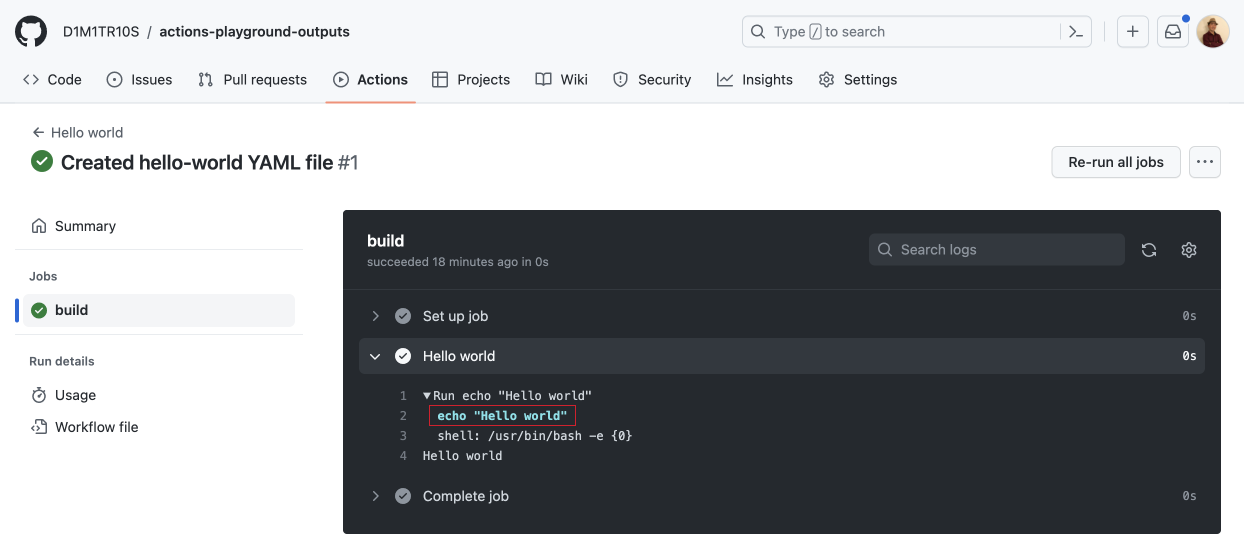
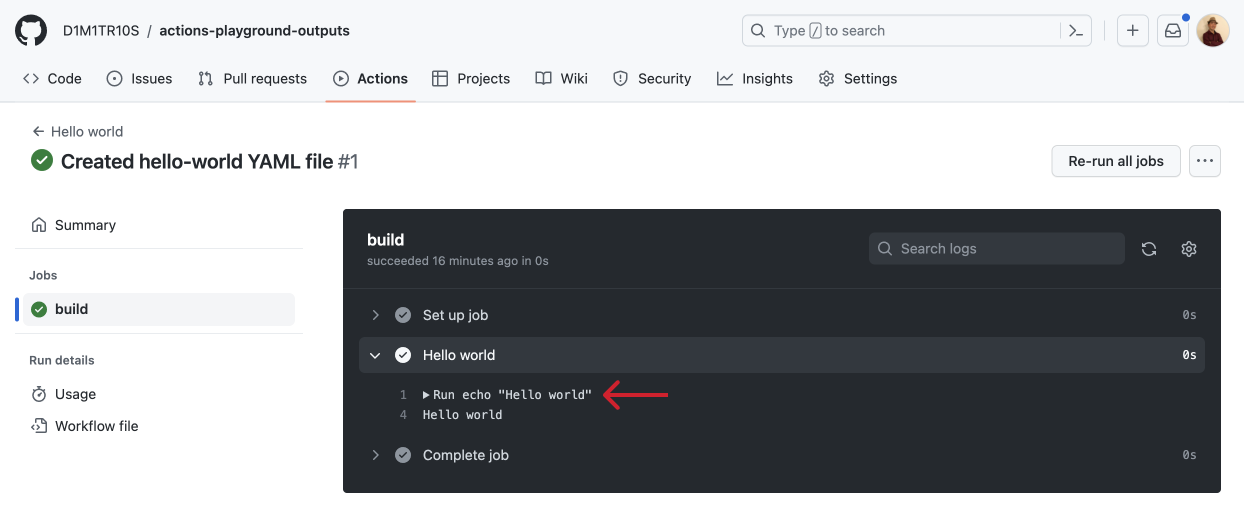
Fixed screenshots for workflow output

diff --git a/content/workflows/first-output.md b/content/workflows/first-output.md
@@ -21,12 +21,12 @@
     ![](./workflow-run.png)
 
 4. To view the output of a specific job, click on the job in the list on the left side-bar or in the pipeline visualizer. This will show you the steps that were run as part of the job, along with their output and duration.
-    ![](./job-summary.png)
+    ![](./view-job.png)
 
 5. To view the output of a specific step, click on the step in the list. This will show you the output of the step, including any log messages or error messages that were generated.
-    ![](./job-output.png)
-
+    ![](./step-summary.png)
     ![](./step-output.png)
+    ![](./step-output-2.png)
 
 By reviewing the output of workflow runs, you can understand what actions were taken as part of the workflow, and any errors or bugs that were caught by that workflow run. This is helpful for debugging errors in your code.
 </h3>

diff --git a/content/workflows/hello-world.md b/content/workflows/hello-world.md
@@ -64,8 +64,7 @@ You can run multiple commands in a single `- run:` step by separating them with 
 
 Keep in mind that the `- run:` step will only succeed if the command returns an exit code of 0. If the command returns a non-zero exit code, the step will be considered a failure.</h3>
 
-<details>
-<summary><h2>Breakdown of YAML syntax</h2></summary>
+<details><summary><h2>Breakdown of YAML syntax</h2></summary>
 <h3>YAML (short for “Yet Another Markup Language”) is a human-readable data serialization language that is used for storing and transmitting data structures and configurations. It is often used for configuration files, but can also be used for storing data in a serialized form, such as database dumps or log files.
 
 **Some basic rules for YAML syntax in GitHub Actions:**
